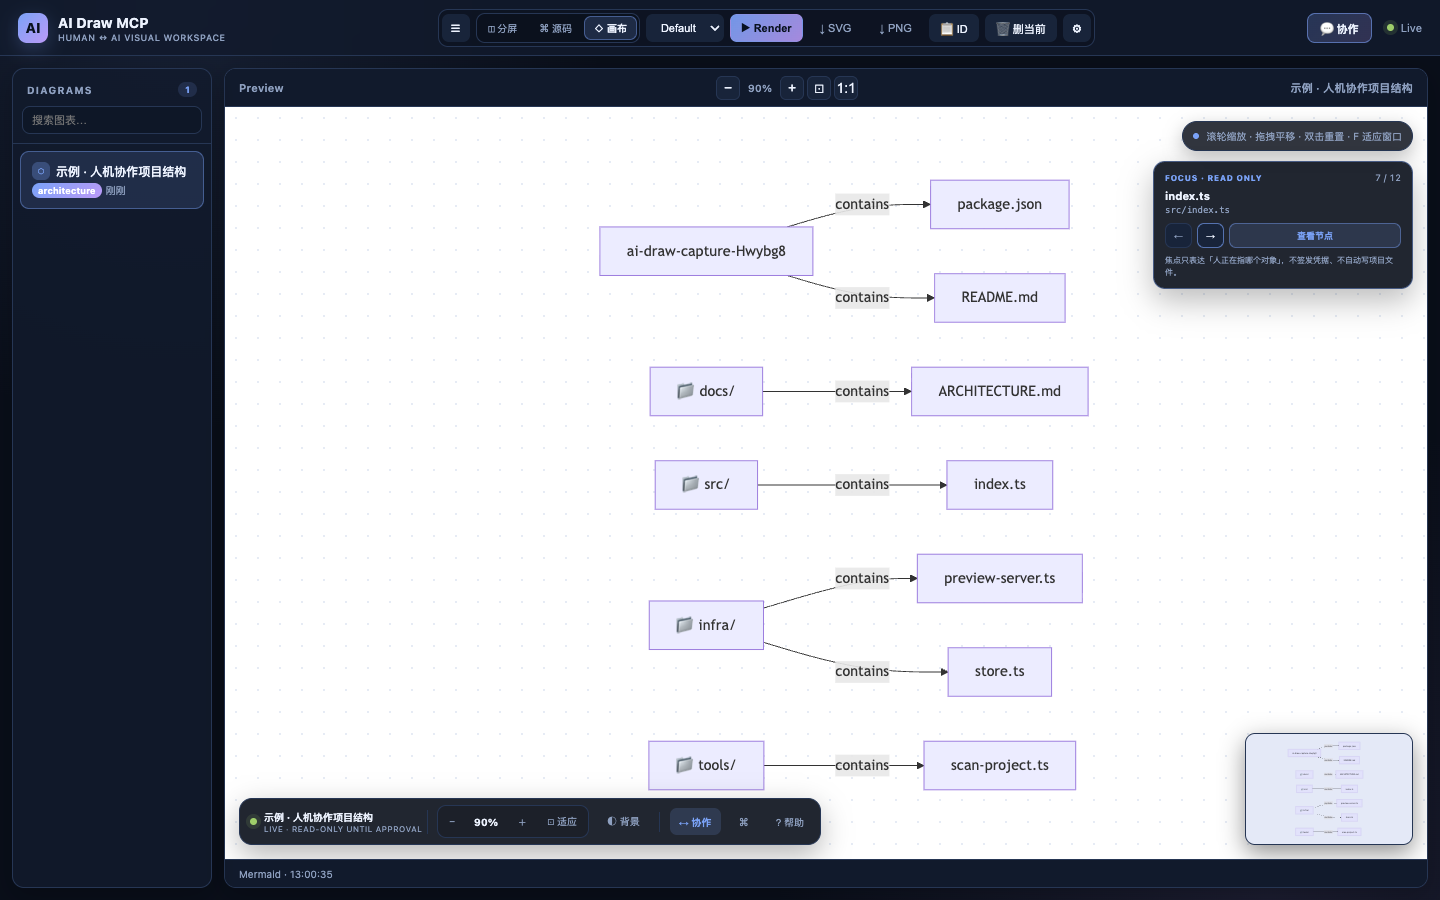
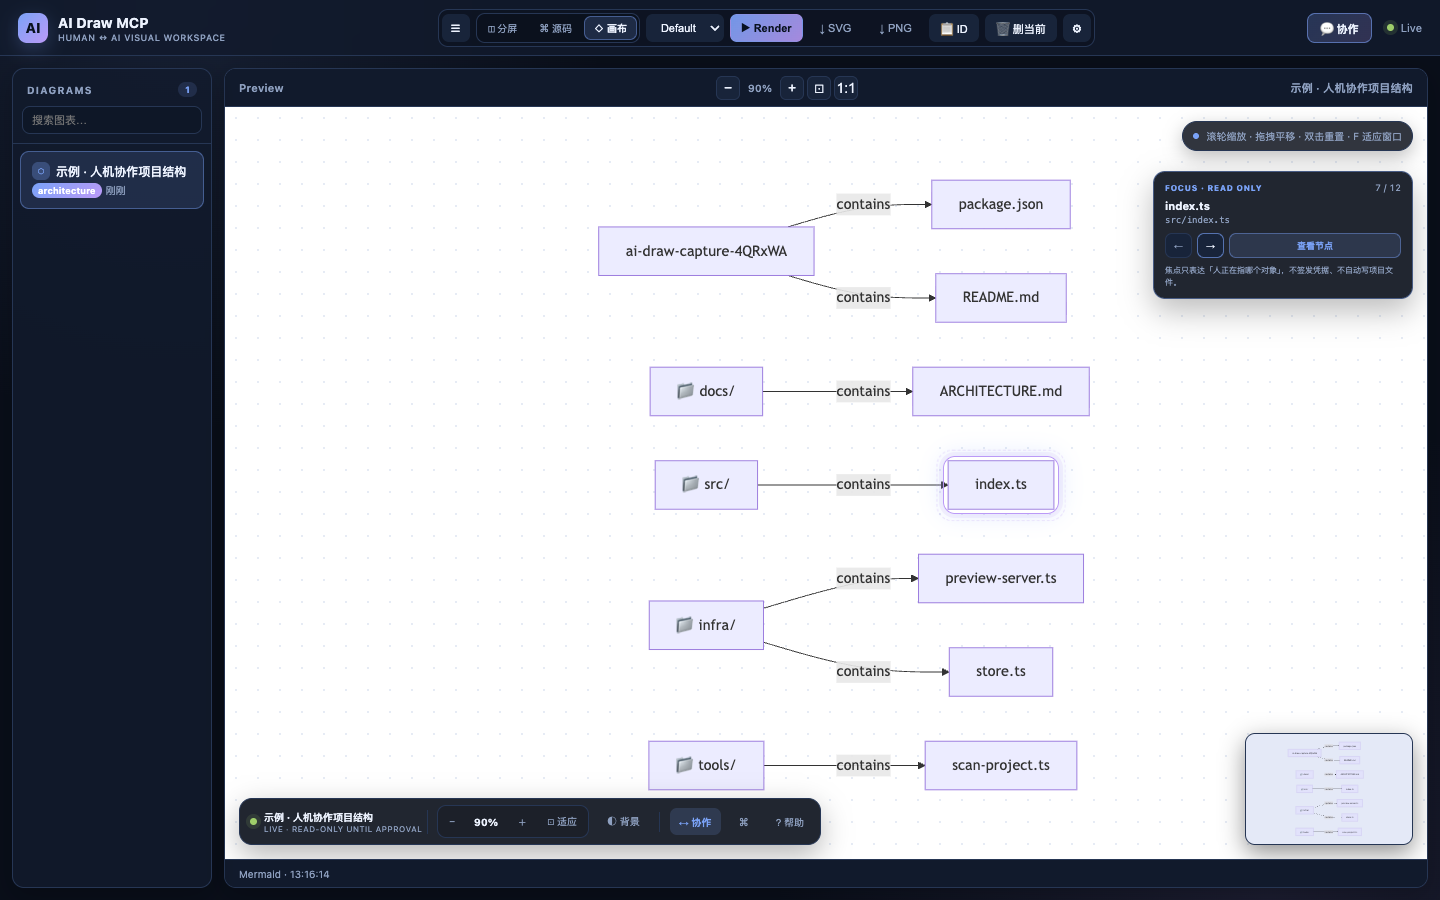
feat: highlight focused canvas node

diff --git a/src/infra/templates/index.html b/src/infra/templates/index.html
@@ -399,6 +399,18 @@
     .canvas-chip::before { content: ''; width: 6px; height: 6px; border-radius: 50%; background: var(--accent); }
     .workspace[data-view="canvas"] .canvas-chip { display: flex; }
     .workspace.welcome #minimap, .workspace.welcome .canvas-chip { display: none; }
+    .canvas-focus-ring {
+      position: absolute; z-index: 18; display: none; pointer-events: none;
+      border: 1.5px solid var(--accent2); border-radius: 12px;
+      box-shadow: 0 0 0 4px rgba(187,154,247,.12), 0 0 24px rgba(122,162,247,.24);
+    }
+    .canvas-focus-ring::before {
+      content: ''; position: absolute; inset: -7px; border: 1px dashed rgba(187,154,247,.62); border-radius: 16px;
+      animation: focus-ring-pulse 2.4s ease-out infinite;
+    }
+    .workspace.welcome .canvas-focus-ring { display: none !important; }
+    .workspace:not([data-view="canvas"]) .canvas-focus-ring { display: none !important; }
+    @keyframes focus-ring-pulse { 0% { opacity: .7; transform: scale(.98); } 100% { opacity: 0; transform: scale(1.06); } }
     .canvas-object-card {
       position: absolute; right: 14px; top: 64px; z-index: 22; width: 260px; display: none;
       padding: 10px 11px; border: 1px solid rgba(122,162,247,.42); border-radius: 12px;
@@ -1109,6 +1121,7 @@
         <div class="preview-wrap" id="previewWrap">
           <div id="diagramRender"></div>
           <div id="panOverlay"></div>
+          <div class="canvas-focus-ring" id="canvasFocusRing" data-focus-node-id="" aria-hidden="true"></div>
           <div class="welcome-card" id="welcomeCard">
             <div class="welcome-main">
               <span class="welcome-kicker">LOCAL-FIRST · HUMAN ↔ AI</span>
@@ -1516,6 +1529,7 @@ function setWorkspaceView(view, persist = true) {
     prefs.viewMode = next;
     savePrefs();
   }
+  positionFocusRing();
 }
 
 loadPrefs();
@@ -1566,9 +1580,53 @@ function applyTransform() {
   const zoomLabel = `${Math.round(zScale * 100)}%`;
   $('#zoomLabel').textContent = zoomLabel;
   $('#canvasZoomLabel').textContent = zoomLabel;
+  positionFocusRing();
   updateCanvasDock();
   scheduleMinimapUpdate();
   scheduleViewportSync();
+}
+
+function svgNodeForFocus() {
+  if ($('#workspace').dataset.view !== 'canvas') return null;
+  if (!currentId || currentId !== collabGraph?.diagramId) return null;
+  const node = (collabGraph?.nodes || []).find((item) => item.id === selectedNodeId);
+  if (!node) return null;
+  const groups = [...$('#diagramRender').querySelectorAll('svg g.nodes > g.node')];
+  const byId = groups.find((group) => group.id.includes(node.id) || group.getAttribute('data-id') === node.id);
+  if (byId) return byId;
+  const label = node.label?.trim();
+  if (!label) return null;
+  return groups.find((group) => {
+    const text = group.textContent?.replace(/\s+/g, ' ').trim() || '';
+    return text === label || text === `📁 ${label}`;
+  }) || null;
+}
+
+function positionFocusRing() {
+  const ring = $('#canvasFocusRing');
+  const group = svgNodeForFocus();
+  const shape = group?.querySelector('rect.basic.label-container, rect, polygon, path, ellipse, circle');
+  if (!ring || !shape) {
+    if (ring) {
+      ring.style.display = 'none';
+      ring.dataset.focusNodeId = '';
+    }
+    return;
+  }
+  const wrapRect = $('#previewWrap').getBoundingClientRect();
+  const shapeRect = shape.getBoundingClientRect();
+  if (!shapeRect.width || !shapeRect.height) {
+    ring.style.display = 'none';
+    ring.dataset.focusNodeId = '';
+    return;
+  }
+  ring.style.display = 'block';
+  ring.style.left = `${shapeRect.left - wrapRect.left - 5}px`;
+  ring.style.top = `${shapeRect.top - wrapRect.top - 5}px`;
+  ring.style.width = `${shapeRect.width + 10}px`;
+  ring.style.height = `${shapeRect.height + 10}px`;
+  ring.dataset.focusNodeId = selectedNodeId || '';
+  ring.dataset.focusNodeLabel = group.textContent?.replace(/\s+/g, ' ').trim() || '';
 }
 
 function updateCanvasDock() {
@@ -1888,6 +1946,7 @@ async function renderDiagram(code, keepView = false) {
     $('#statusErr').textContent = '';
     $('#statusMsg').textContent = `Mermaid · ${new Date().toLocaleTimeString()}`;
     if (!keepView) fitView();
+    positionFocusRing();
     refreshMinimapImage();
   } catch (e) {
     $('#statusErr').textContent = `Error: ${e.message?.slice(0, 120) ?? e}`;
@@ -1913,6 +1972,7 @@ function renderSvgPreview(raw, keepView = false) {
     $('#statusErr').textContent = '';
     $('#statusMsg').textContent = `SVG · ${new Date().toLocaleTimeString()}`;
     if (!keepView) fitView();
+    positionFocusRing();
     refreshMinimapImage();
   } catch (e) {
     $('#statusErr').textContent = `SVG parse: ${e.message?.slice(0, 120) ?? e}`;
@@ -2797,6 +2857,7 @@ function renderCanvasObject() {
   $('#canvasObjectCard').title = node
     ? `${node.label} · ${node.path || '无路径'} · 只读焦点`
     : '项目结构图加载后可切换节点';
+  positionFocusRing();
 }
 
 function renderViewport(viewport = null) {

diff --git a/CHANGELOG.md b/CHANGELOG.md
@@ -12,6 +12,7 @@ The format is based on [Keep a Changelog](https://keepachangelog.com/en/1.1.0/),
 
 ### Maintenance
 
+- 画布焦点高亮环（2026-11-06 13:20 CST）：当前只读焦点节点在真实 Mermaid 结构图上新增紫色描边、柔和脉冲环与 5px 安全留白；按扫描节点 id 精确匹配 `g.nodes` 下的真实节点，排除连线标签，且在画布视图、当前图与协作会话一致时才显示。高亮环在节点切换、渲染完成、缩放和平移时按屏幕坐标重新定位，让「对象焦点」卡与图形本体始终指向同一个对象；不改变 SVG 内容、图修订、会话或写入闸门。浏览器回归、离线守卫、README 与可复现画布截图同步覆盖。
 - 画布对象焦点（2026-11-06 13:15 CST）：画布右上角新增对象导航卡，显示当前节点名称、序号、路径与只读说明；`← / →` 按钮、`[ / ]` 快捷键和命令面板可循环切换节点，「查看节点」进入协作工作台项目图栏。切换复用既有 `POST /api/collab/focus` 只读焦点接口，让 AI 看到人正在指哪个对象，但不新增工具、不签发凭据、不创建提案或写项目文件。借鉴 tldraw / Figma 的「对象选择 + 对象锚定讨论」体验，保留本项目「会话真源 + 人工批准闸门」边界；浏览器回归、离线守卫、截图脚本、README 与快捷键帮助同步覆盖。
 - 提案审阅进度（2026-11-06 13:00 CST）：完整逐行 diff 默认显示「待展开 · 只读」，展开时增加蓝色加载态，成功后变成「✓ 已加载 · 请逐行阅读」并把批准按钮从橙色「先审阅 diff」温和切换为绿色「批准并签发确认号」；失败则保留红色可重试状态。提案卡片新增常驻「人工确认边界」说明，明确一次性确认号仍需交给 AI 调用 `apply_visual_proposal`。这是本机审阅引导，不阻止人工决定、不改批准接口、不签发额外凭据、不自动写项目文件；浏览器回归、离线守卫与 README 同步覆盖。
 - CI 稳定性（2026-11-06 12:40 CST）：`6ba3625` 的 Node 24 CI 在较慢 runner 上让 Puppeteer 面板回归恰好触及 30 秒默认测试超时，Node 20 通过、功能断言未失败；把该端到端测试超时单独放宽到 60 秒，避免浏览器启动与多档响应式检查在 CI 并发下被误判。只改测试超时，不改产品行为、工具契约或写入闸门。

diff --git a/README.md b/README.md
@@ -45,7 +45,7 @@
 
 画布工作区截图由 `npm run ui:shots` 使用临时示例项目可复现生成：AI 扫描出的目录与文件先成为一张真实结构图，人类把它切到全屏画布视图，再用浮动操作条控制视口与协作入口。截图里的示例节点、对话和提案只存在于临时会话，不代表仓库文件被自动修改。
 
-画布右上角的「对象焦点」卡显示当前节点名称、序号和路径，可用 `← / →` 按钮、`[ / ]` 或命令面板切换节点；切换会同步既有只读 focus 上下文，让 AI 知道人正在指哪个对象，但不会签发凭据、创建提案或写项目文件。点击「查看节点」会进入协作工作台的项目图栏。
+画布右上角的「对象焦点」卡显示当前节点名称、序号和路径，可用 `← / →` 按钮、`[ / ]` 或命令面板切换节点；结构图上的对应节点会显示柔和高亮环，并随缩放/平移实时跟随。切换同步既有只读 focus 上下文，让人和 AI 看到同一个对象，但不会签发凭据、创建提案或写项目文件。点击「查看节点」会进入协作工作台的项目图栏。
 
 ![AI Draw MCP 画布快捷键帮助](https://raw.githubusercontent.com/2648782102/ai-draw-mcp/master/docs/canvas-shortcuts-panel.png)
 
